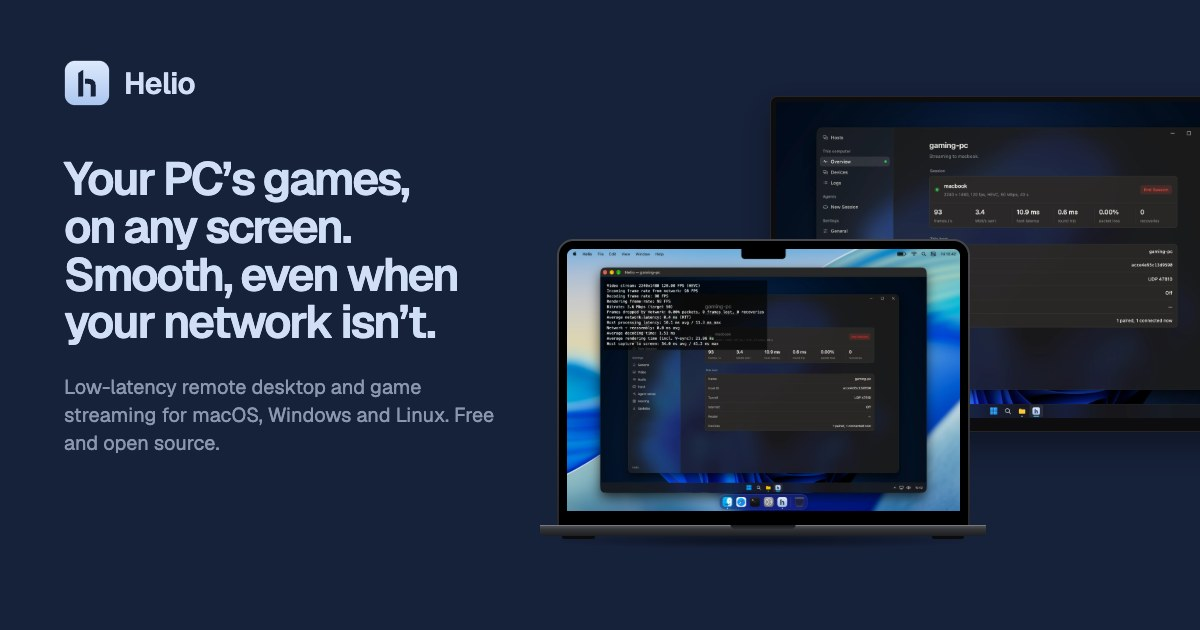
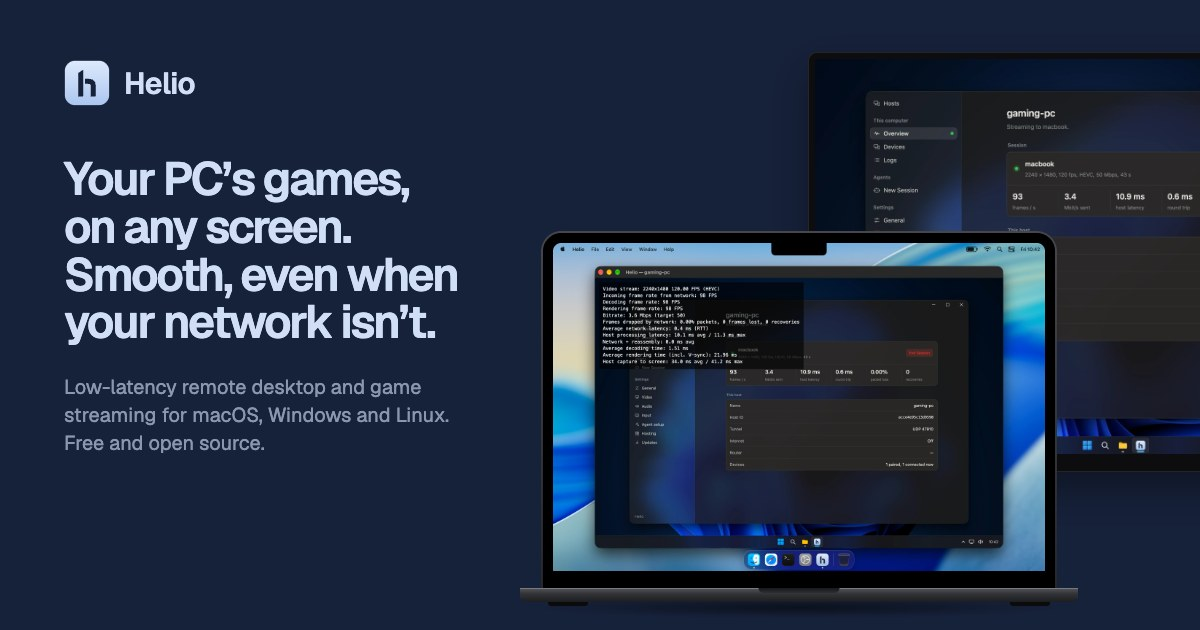
site: the link preview's MacBook is bigger, low on the card
On the card the pair was 720 px wide and floated mid-height, its MacBook
small beside the title. It is 900 px now: the MacBook 558 px wide, its
feet 25 px above the card's foot, and the monitor behind it running off
the card's top right. The description line is narrower than the title,
so it ends well short of the MacBook.

Verified: rendered at 1200x630 in Helium (headless), three layouts side
by side, and this one looked at; the pair's boxes measured (MacBook
520-1078 px across, 231-602 down).

diff --git a/site/scripts/og-card.html b/site/scripts/og-card.html
@@ -17,10 +17,13 @@ body { width: 1200px; height: 630px; overflow: hidden; font-family: Geist, syste
 h1 { margin-top: 50px; color: #d1dff6; font-size: 46px; line-height: 1.04; letter-spacing: -0.045em; font-weight: 600; }
 /* Each phrase from a line of its own, its last words kept together. */
 h1 span { display: block; }
-p { margin-top: 26px; color: rgb(209 223 246 / 0.62); font-size: 20px; line-height: 1.4; }
-/* The pair, its right edge and its foot past the card's, as the hero runs
-   on past the first screen. */
-.stage { position: absolute; left: 540px; top: 96px; width: 720px; }
+/* Narrower than the title, so its lines end well short of the MacBook. */
+p { margin-top: 26px; max-width: 400px; color: rgb(209 223 246 / 0.62); font-size: 20px; line-height: 1.4; }
+/* The pair at 900 px, half again the copy's width: the MacBook 558 px
+   wide, its feet 25 px above the card's foot, and the monitor behind it
+   running off the card's right edge, as the hero runs on past the first
+   screen. */
+.stage { position: absolute; left: 520px; top: 52px; width: 900px; }
 
 .pair {
   container-type: inline-size;
